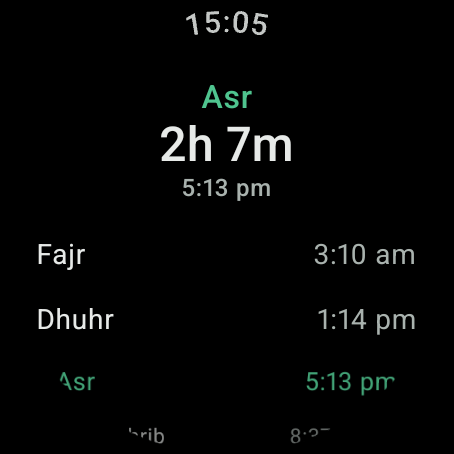
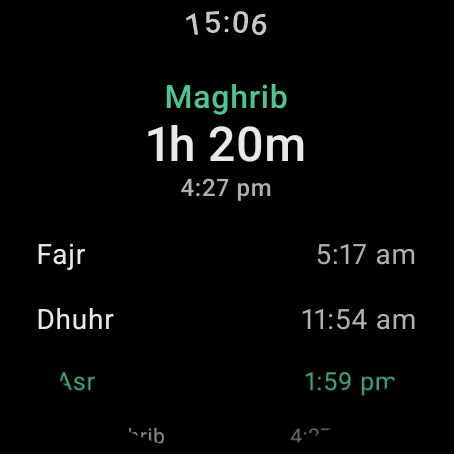
1.7.0 kept ready: watch note approved and translated, 10sp exception recorded, watch picture retaken
Ali decided 6 Nov 2026 not to publish 1.7.0 now (1.6.0 is not live). Decisions recorded:
- English watch note approved; translated into the eight languages (LISTING-LOCALES.md) and the
  ledger stamped. Opus review fixed Urdu (بنگالی not بنگلہ, which reads as bungalow), Arabic,
  Indonesian and Hindi wording and a wrong count.
- The one-line Next card's 10sp floor confirmed and added to typography.json, worded as the code
  behaves (any text size when its line needs it), after review showed "from 1.5x" was too narrow.
- Large Today card padding: tried 3dp, measured about 364dp need (369 offered), still above a plain
  4x4 slot (about 232dp on the Redmi) and tighter than the 4dp Ali called squashed. Reverted to 6dp
  at Ali's word; no code change since e9b89c6, so the release script result still holds.
- Watch Times picture retaken on the sajdawear_large emulator (Manchester, 15:06, Asr marked, 1.7.0
  build); recipe in HANDOVER. Not tested: a real phone. Gate on this tree: 349/255/27, lint clean.

diff --git a/docs/HANDOVER.md b/docs/HANDOVER.md
@@ -6090,7 +6090,11 @@ Play services missing; a signed bundle; Play Console, Data safety and the privac
 > got here. Read the first block. Everything after the HISTORY marker is evidence and reasoning,
 > not instructions.**
 
-### 📍 STATE OF PLAY, 5 Nov 2026 (release script all PASS on the final commit, READ THIS FIRST): 1.7.0 committed, pushed, reviewed and kept ready
+### 📍 STATE OF PLAY, 6 Nov 2026 (READ THIS FIRST): 1.7.0 kept ready, NOT being published now (Ali)
+
+**6 Nov 2026 session, what changed and why.** Ali's decisions (AskUserQuestion): **do not publish 1.7.0 now, keep it ready** (Play still shows "Updated on 23 Oct 2026", so 1.6.0 is not live; the post-release one-folder cleanup of the Mac and Drive therefore has NOT started and waits for his upload of both bundles); **the English watch note is approved** and is translated into the eight languages in `docs/store/LISTING-LOCALES.md` ("1.7.0 watch note", Opus review fixed Urdu بنگالی, Arabic, Indonesian, Hindi wording; ledger stamped in the same commit); **the 10sp exception of the one-line Next card is confirmed** and now in `typography.json` (worded as it really behaves: any text size when the one line needs it, the 140dp row, plus the 40dp slot from 1.5x; the Opus review found "from 1.5x" alone was wrong); **large Today card padding: tried 3dp, then reverted to 6dp.** Measured on the emulator: 3dp brings the large card's need to about 364dp (369dp offered) from about 401dp, which still does not reach a plain 4x4 (a Redmi slot is about 232dp) and makes rows tighter than the 4dp Ali called squashed; Ali chose to keep 6dp. So the code is unchanged since `e9b89c6` and the release script result below still holds for it. The watch Times picture (`w1-times.png`, raw and upload) was retaken on the `sajdawear_large` emulator (454 by 454, Manchester, clock 15:06, Asr marked as current, 1.7.0 build). Recipe that worked: `adb root`, set clock and zone, a mock network location (`cmd location providers add-test-provider network`, then `set-test-provider-location network --location 53.4808,-2.2426` repeatedly), grant coarse location; the AVD is read-only so an install is lost at each restart: install after the last boot. Not done: a real phone widget test (no phone attached; Ali's), retaking `06-widget-today.png` (the code did not change). Gate on this tree: 349 app, 255 core, 27 wear, lint clean.
+
+### STATE OF PLAY, 5 Nov 2026 (release script all PASS on the final commit; the 6 Nov block above is newer): 1.7.0 committed, pushed, reviewed and kept ready
 
 **Where it is.** Branch `claude/1-7-0`, committed and pushed (`15f37bc` widgets, `07e69ad` release prep, `3142074` planning files to Drive,
 `979a324` CLAUDE.md note, later docs and the watch test). Phone 11 / 1.7.0 and **watch 1003 / 1.7.0, both ship** (the watch Times list marks the
@@ -6132,7 +6136,7 @@ marked, nothing behind the bezel, both round sizes, 1.0x and 1.3x).
 (`WidgetRenderEvidenceTest#next_card_pictures`):** a name that is shortened to nothing when the one-line card carries "Tomorrow" or a Ramadan word
 (the layout is back to name first, and `tinyPlan` measures name, time and extras so the line always fits), and the right-to-left centring lost with
 exact alarms off (same revert). Also: the no-location path now writes the spacer and gravity back. The 10sp floor of the one-line card is a named
-exception to the 12sp widget floor that is NOT yet in `docs/design-system/tokens/typography.json` (Ali to confirm). Because the last two edits
+exception to the 12sp widget floor that is in `docs/design-system/tokens/typography.json` since 6 Nov 2026 (Ali confirmed). Because the last two edits
 came after the green release script above, the script is re-run once more on the final commit; its result replaces the line above if it differs.
 
 **release-1.7.0.sh on the FINAL commit `e9b89c6` (5 Nov 2026, 02:16): every line PASS or TAKEN, 0 FAIL.** Gate green (349 app, 255 core, 27 wear), lint clean, device suite 53 of 53, bundles 11 and 1003 signed, phone bundle 10,080,761 bytes. The line below is the earlier run on `6b6bf20`.

diff --git a/docs/PROJECT_BRIEF.md b/docs/PROJECT_BRIEF.md
@@ -11,6 +11,7 @@ The source of truth is `docs/HANDOVER.md` §11. This file is the short version A
 - Times: time left in the current prayer, optional Duha row (off by default, Sunni only), a bigger sky band that follows the day, no more cards for Set location or exact alarms (a button beside the city and a line on the Fajr row), a restyled Ramadan card, one meaningful icon per prayer, and a redone one row widget (app logo marks the current prayer, green in dark). Details, open decisions and how to check it: `docs/HANDOVER.md` §11 first block.
 - Also built since (3 Nov 2026): "Match your mosque" shows each prayer's time and the corrected one, says "0 min"; the Islamic date shift moved to the Islamic dates sheet (the Settings row shows "Shifted by +1 day" when set); the Next prayer and Today widgets now match the strip and every widget size was set from measured heights (tall scripts included), with a short form of Next prayer that drops the day bars. Emulator device suite: 46 tests pass.
 - Also done 4 Nov 2026: checked on Ali's real Redmi (dark, light, 1.3x text, Urdu, Arabic). Two widget defects found and fixed there (the underline cutting the marked prayer's text; the large Today cut every evening after Isha), and the thinnest strip now shows the next prayer only (Ali's choice). Samsung checks dropped by Ali. Emulator device suite: 55 tests pass.
+- **6 Nov 2026: Ali decided 1.7.0 is kept ready and NOT published now** (1.6.0 is not live yet; Play shows "Updated on 23 Oct 2026"). The watch release note is approved and translated into eight languages; the large Today widget card keeps its 6dp rows (3dp was tried and did not reach a plain 4x4); the watch store picture was retaken. Still Ali's: a real phone widget test, and pressing merge and upload when he chooses.
 - **The watch ships with 1.7.0 (found 4 Nov 2026, late).** The watch Times list now marks the current prayer like the phone and widgets, so the watch is 1.7.0 / versionCode 1003 (`wear/build.gradle.kts`) and both bundles are uploaded on release day (the watch goes through its own Wear review). Earlier notes saying "the watch stays 1.5.0" were wrong. Permissions unchanged.
 - Widgets, 4 Nov 2026 late (committed and pushed, 15f37bc): the highlight outline is no longer cropped in Arabic or Urdu (Today card, Next card), the Next card is centred in right to left (Ali's yes), the large Today card is offered again at 1.3x to 1.6x text with the compact six row list as the fallback below that height. Repo cleaned 4 Nov 2026 (Ali: keep one source of truth): planning files, research, evidence and old plans now live only in the Google Drive folder "SajdaTime (private)" (see its 00 READ ME FIRST); `docs/plans`, `private/`, the Codex worktrees and old bundle folders are gone from the Mac.
 - Store prep, 4 Nov 2026: Ali approved the English listing and all eight phone picture sets are approved. The eight translations were reviewed by a separate Claude reviewer, with six wording fixes, and stamped. A verification run passed (gate, listing sizes, ledger). Open: Ali's decisions on the Times bottom bar spacing and the Indonesian time-remaining wrap. The release checklist is `docs/release-tools/RELEASE-1.7.0.md`. A reply to the Haram muezzin agency permission email is still pending.

diff --git a/docs/store/LISTING.md b/docs/store/LISTING.md
@@ -1462,6 +1462,6 @@ Run `./tools/build-store-assets.sh` to regenerate everything under `upload/`.
   in particular shows its bearing-from-north state because the Wear AVD has no
   magnetometer — a real state, but not the best version of that screen.
 
-## 1.7.0 watch note, DRAFT 4 Nov 2026 (for the Wear OS release's What's new; Ali approves, then Claude translates into the eight languages and stamps the ledger)
+## 1.7.0 watch note, APPROVED by Ali 6 Nov 2026, translated into the eight languages in LISTING-LOCALES.md (for the Wear OS release's What's new)
 
 The watch is now in Bengali and marks the prayer that is current, like the phone.
